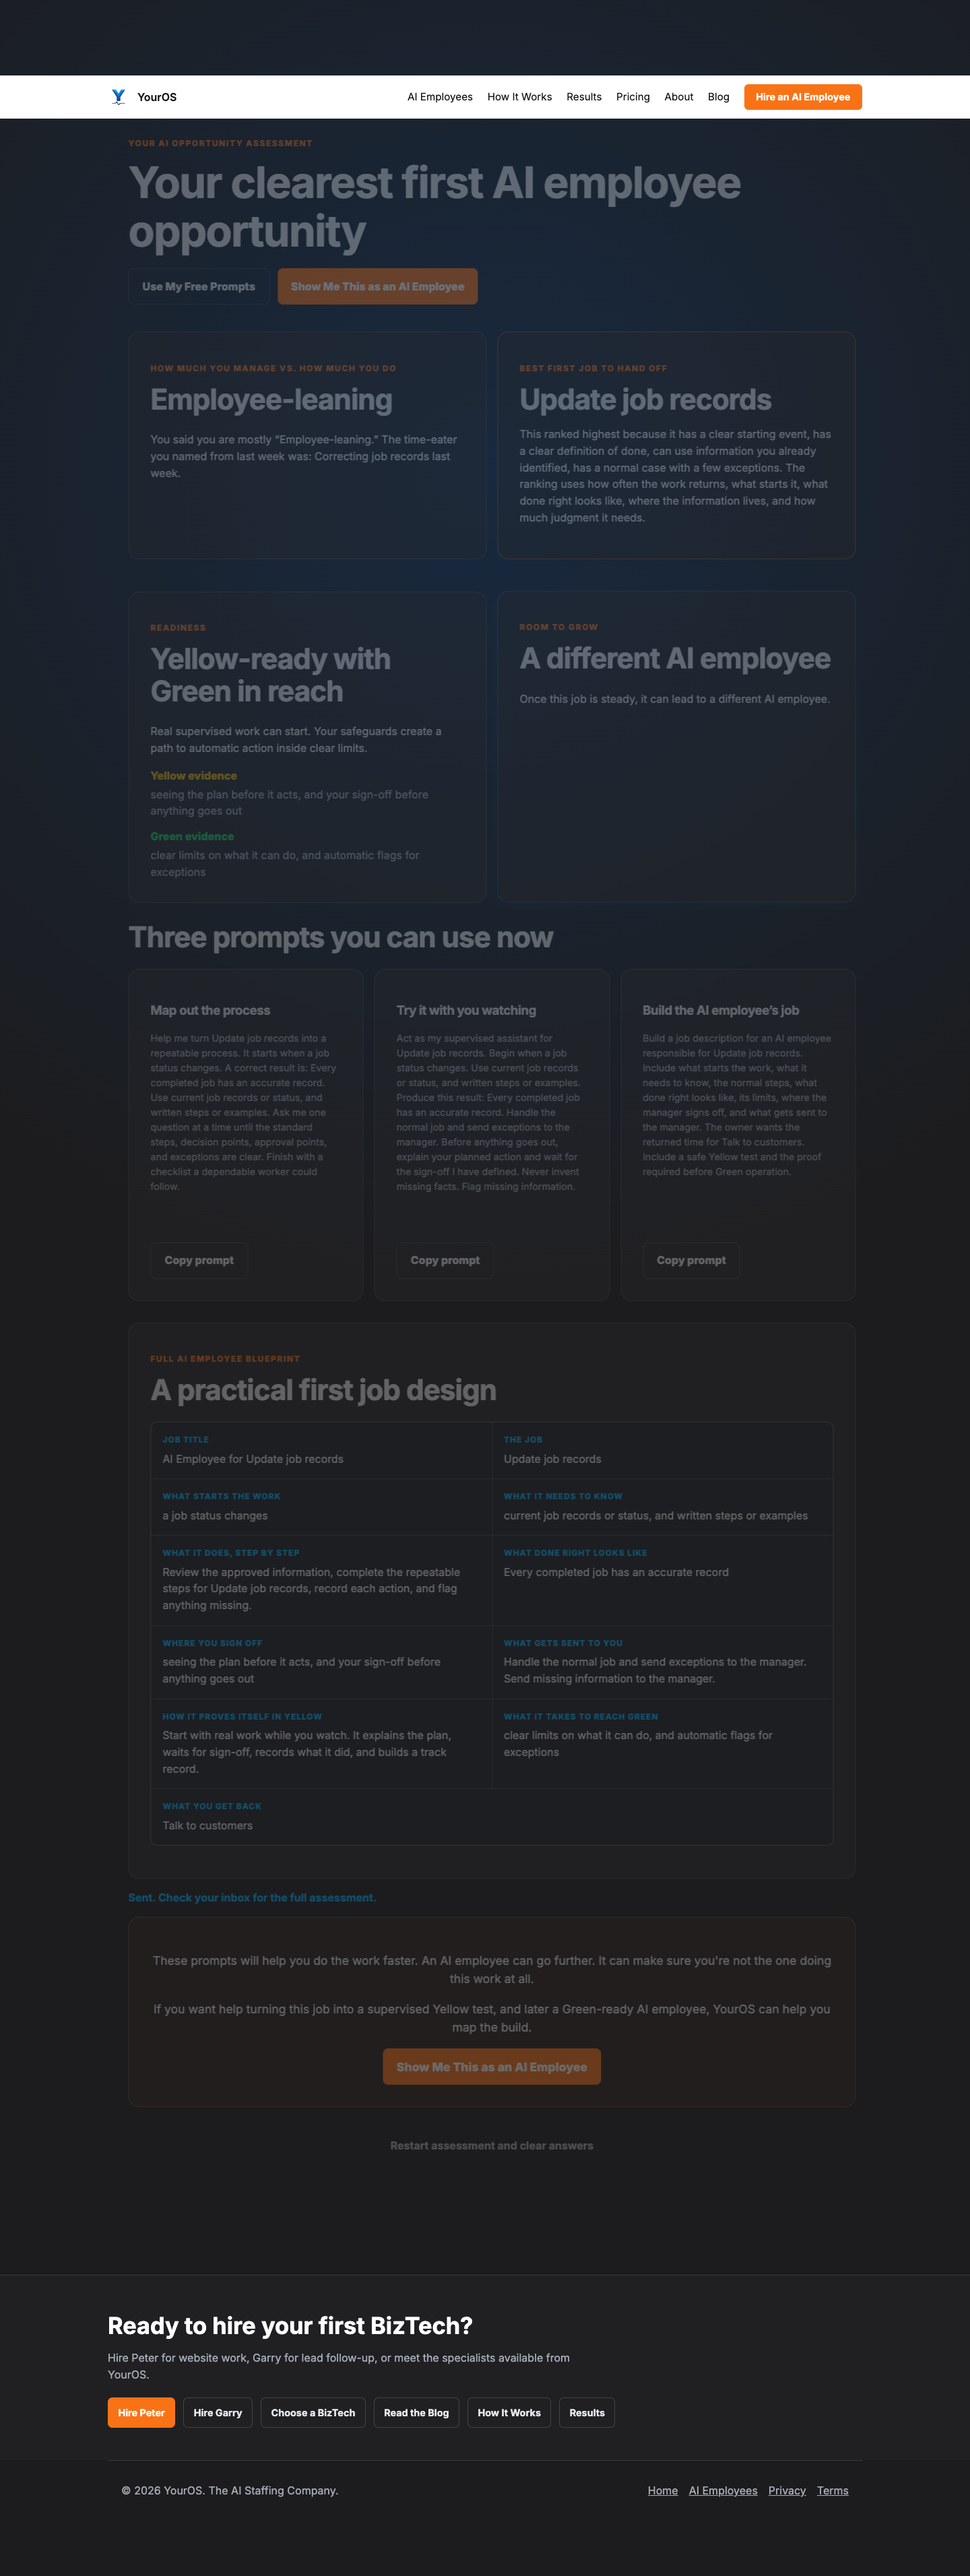
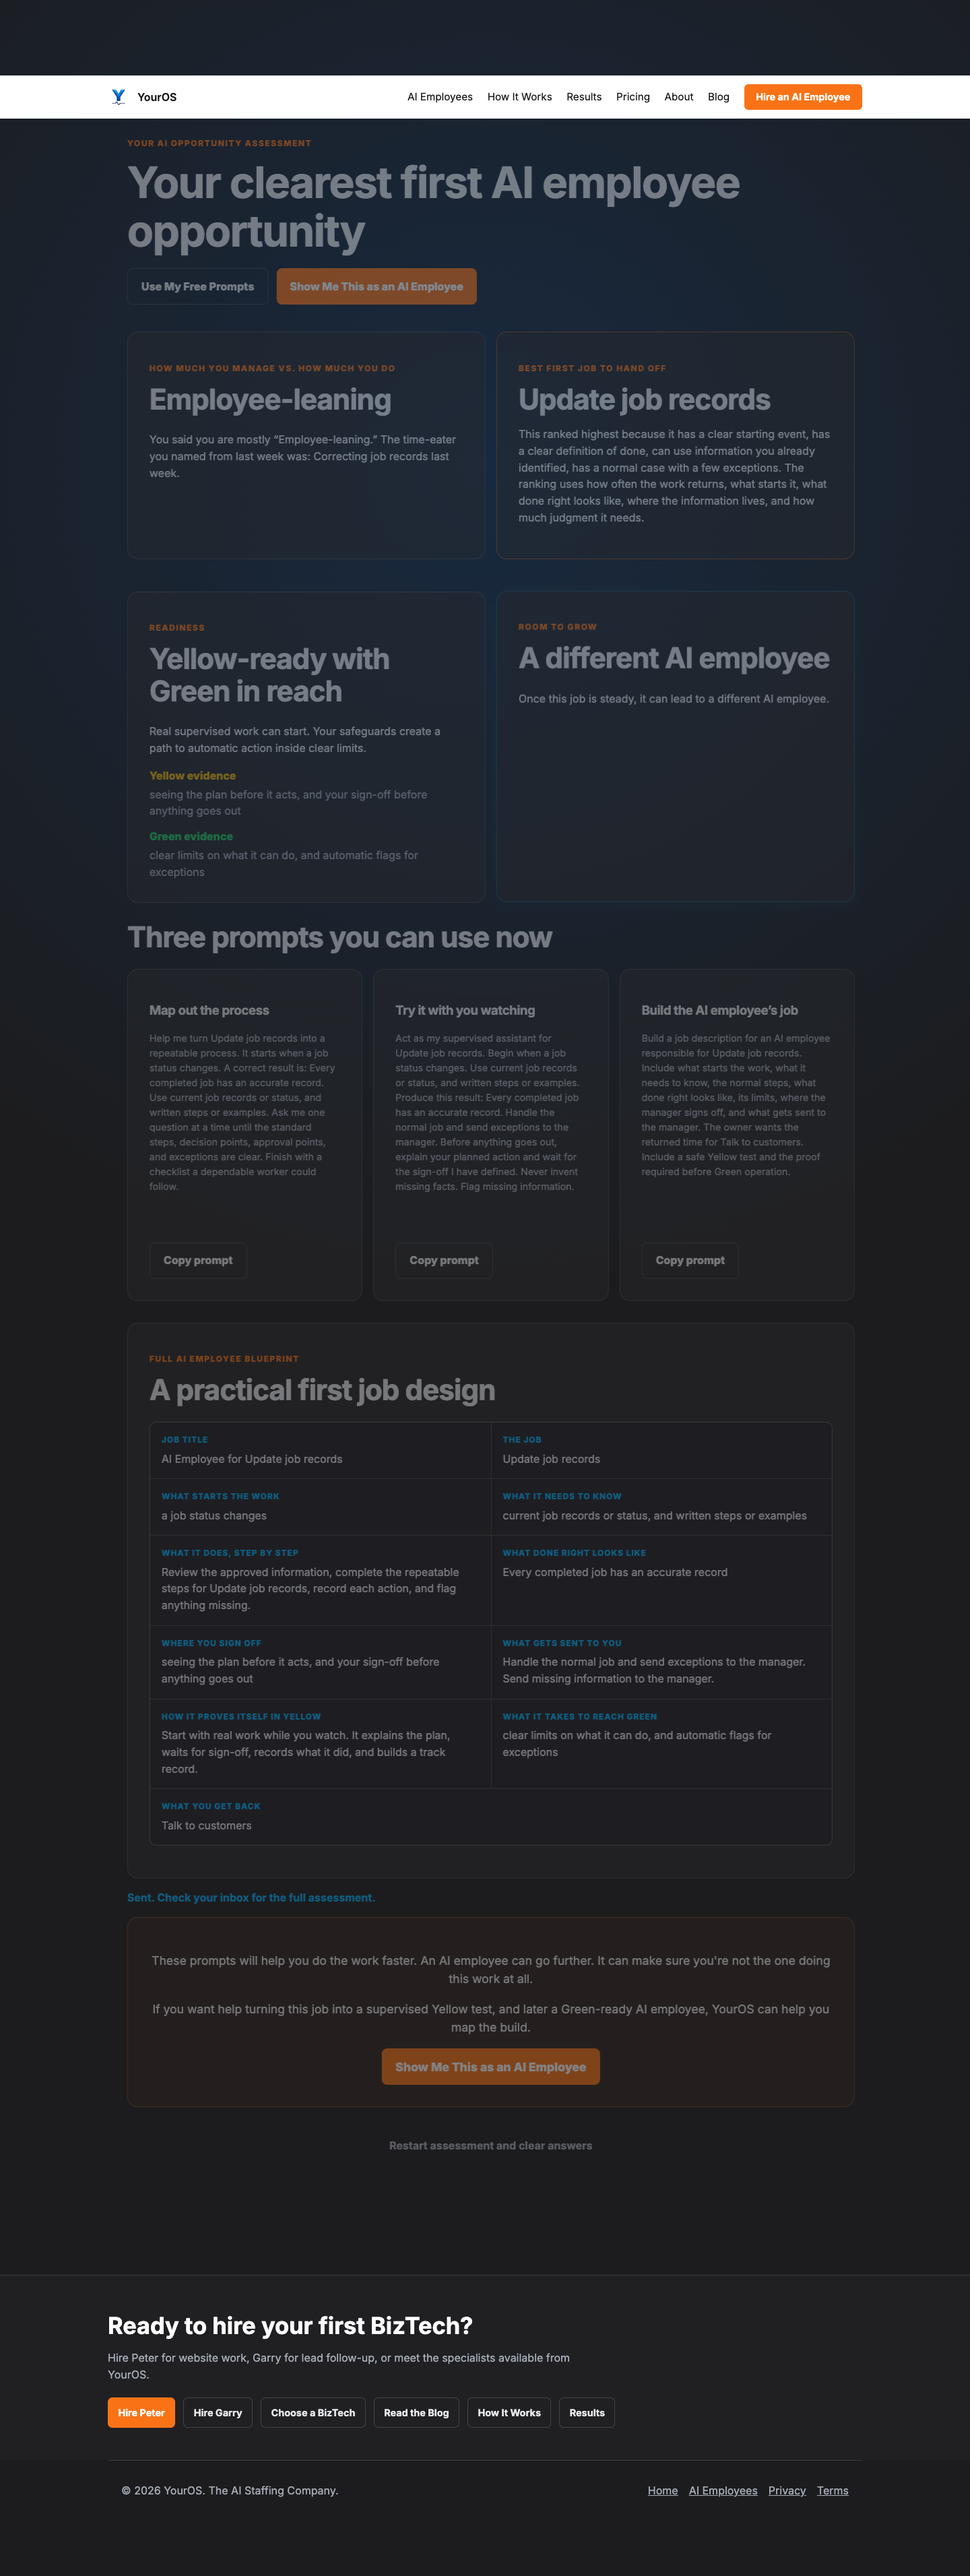
Retrigger quiz preview with copy marker

diff --git a/ai-employee-quiz/index.html b/ai-employee-quiz/index.html
@@ -10,7 +10,7 @@
 </head>
 <body class="quiz-page">
 <nav class="yos-header" aria-label="Primary navigation"><a class="yos-header__brand" href="/"><img src="/assets/brand/youros-mark.webp" width="96" height="96" alt="YourOS"><span>YourOS</span></a><button class="yos-header__toggle" type="button" aria-label="Toggle navigation" aria-expanded="false" aria-controls="primary-navigation"><span></span><span></span><span></span></button><div class="yos-header__links" id="primary-navigation"><a href="/biztechs/">AI Employees</a><a href="/how-it-works/">How It Works</a><a href="/results/">Results</a><a href="/pricing/">Pricing</a><a href="/about/">About</a><a href="/blog/">Blog</a><a class="yos-header__cta" href="/biztechs/?source=nav">Hire an AI Employee</a></div></nav>
-<main class="quiz-shell" data-quiz-app>
+<main class="quiz-shell" data-quiz-app data-copy-version="2.1.0">
 <div class="quiz-progress"><span data-progress-text></span><progress data-progress max="10" value="1" hidden>Question progress</progress></div><p class="sr-only" aria-live="polite" data-live-status></p>
 <section class="screen intro" data-screen="intro"><div><p class="eyebrow">AI Opportunity Assessment</p><h1 tabindex="-1">Are you running this business, or is the paperwork running you?</h1><p class="lead">Ten quick questions. About three minutes. Think like a manager. Managers set direction. They use judgment. They handle exceptions. Repeatable work, office work, and routine tasks are employee work. That's often the work an AI employee can take off your plate.</p><aside class="teaching-blip intro-blip">Step one is noticing it. Think back over last week. What did you actually do? Now picture a dependable new hire starting Monday. What would you hand them on day one?</aside><button class="button" type="button" data-start>Find My Opportunity</button></div></section>
 <section class="screen contact-screen" data-screen="contact" hidden><p class="eyebrow">Before we begin</p><h1 tabindex="-1">Where should we send your results?</h1><p class="lead">You'll see everything here when you finish. We'll also email your full assessment, Blueprint, and ready-to-use prompts. That way, you won't have to copy everything from this page.</p>
